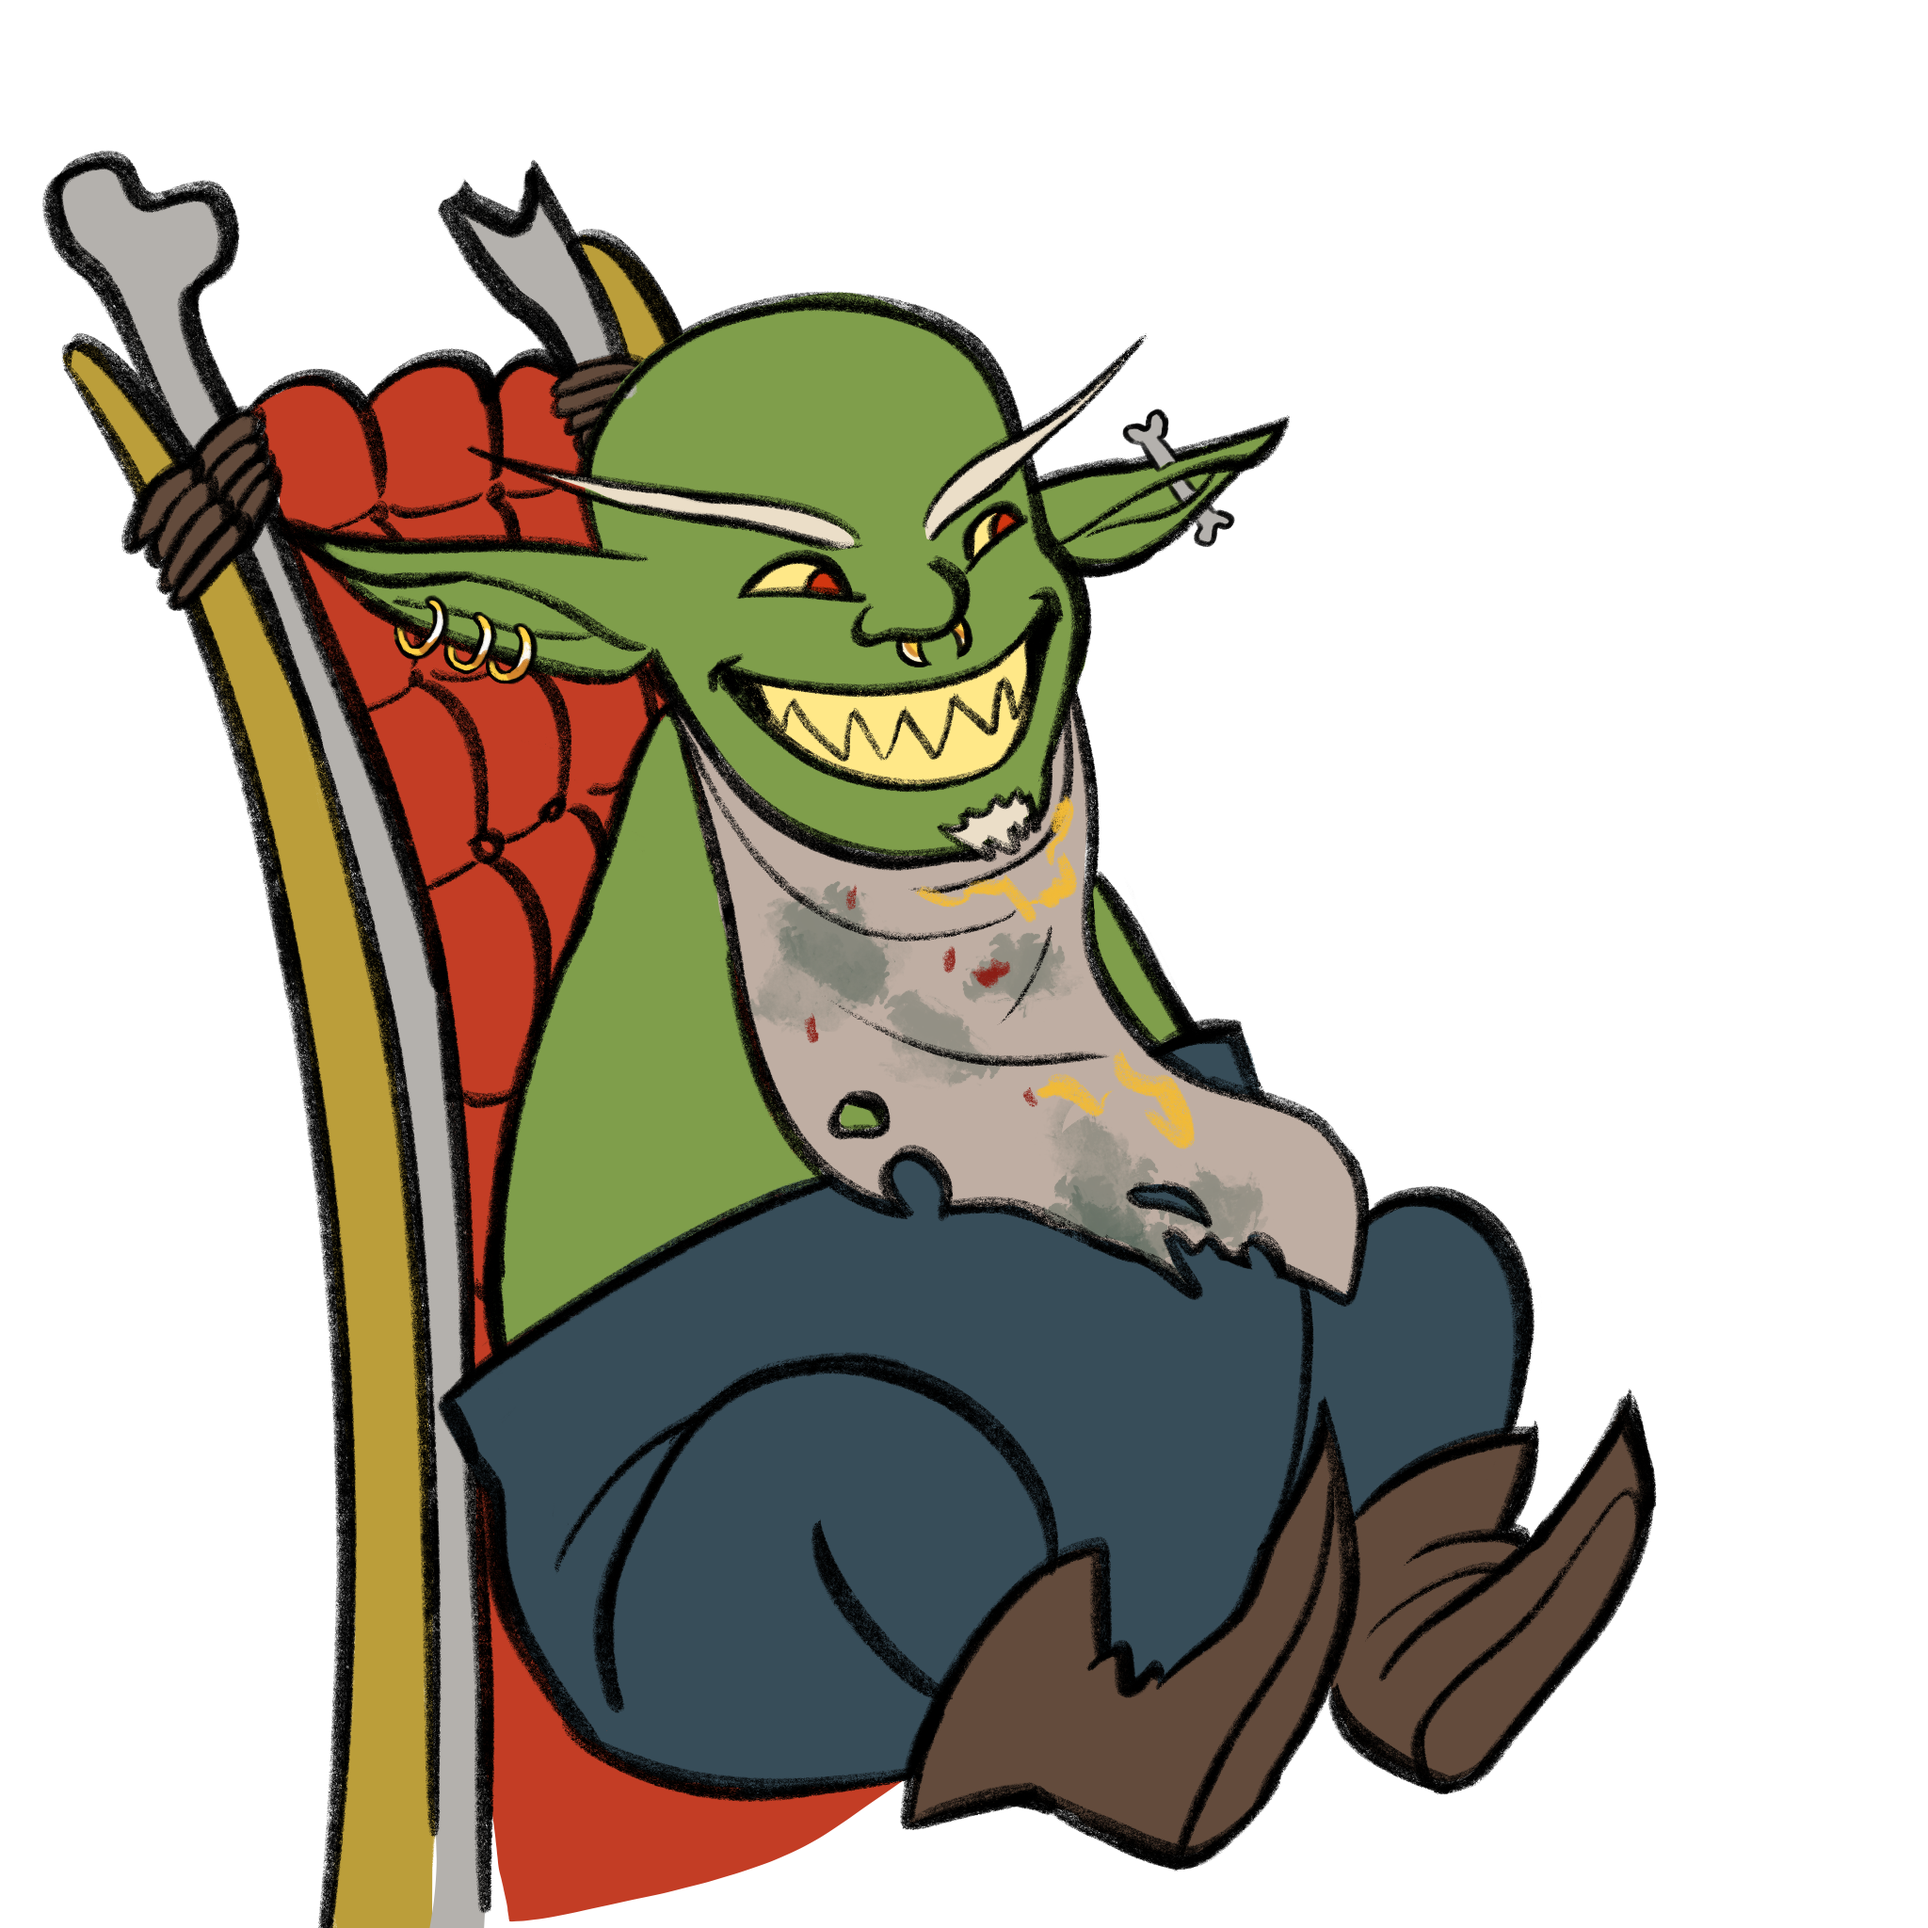
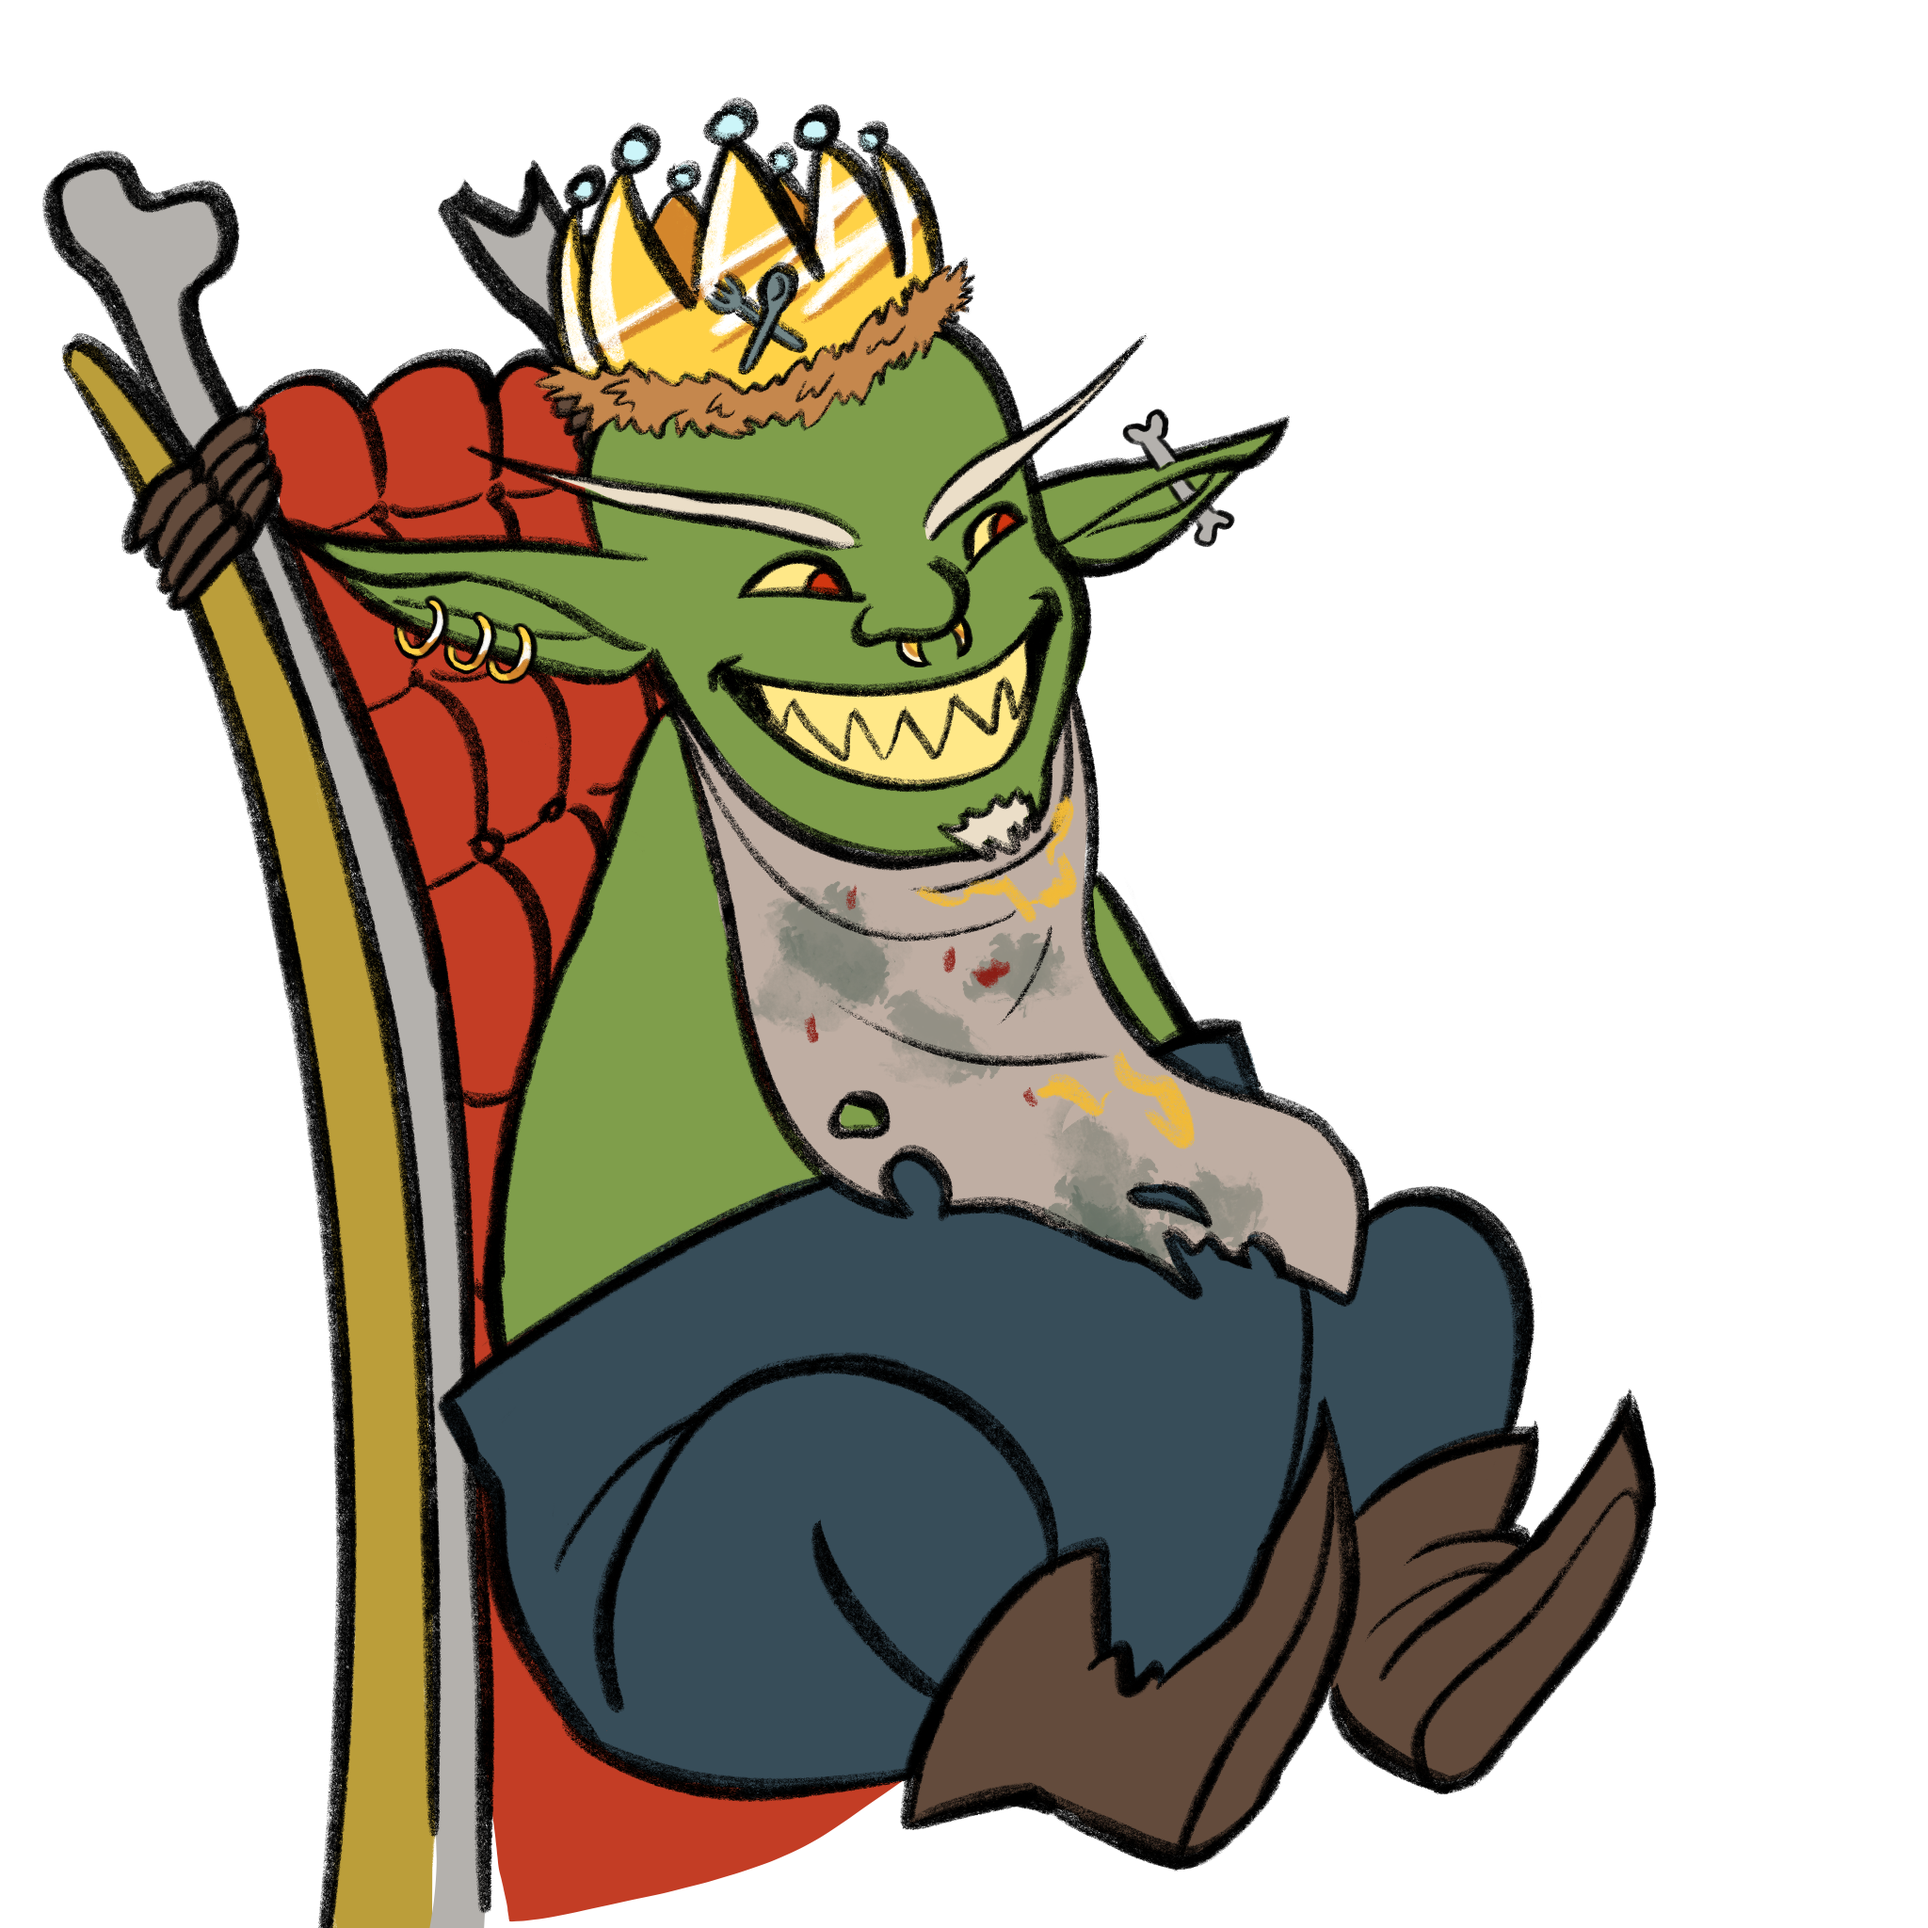
new king art

Changed region(s): [[0.2812, 0.0312, 0.5, 0.25]]

diff --git a/Assets/Goblin/Game.cs b/Assets/Goblin/Game.cs
@@ -159,8 +159,6 @@ public class Game : MonoSingleton<Game>
 		if (IsPaused || !HasStarted)
 			return;
 
-		_comboSystem.Update();
-
 		bool stageComplete = _player.HasEatenAllFood || _opponent.HasEatenAllFood;
 		if (stageComplete)
 		{
